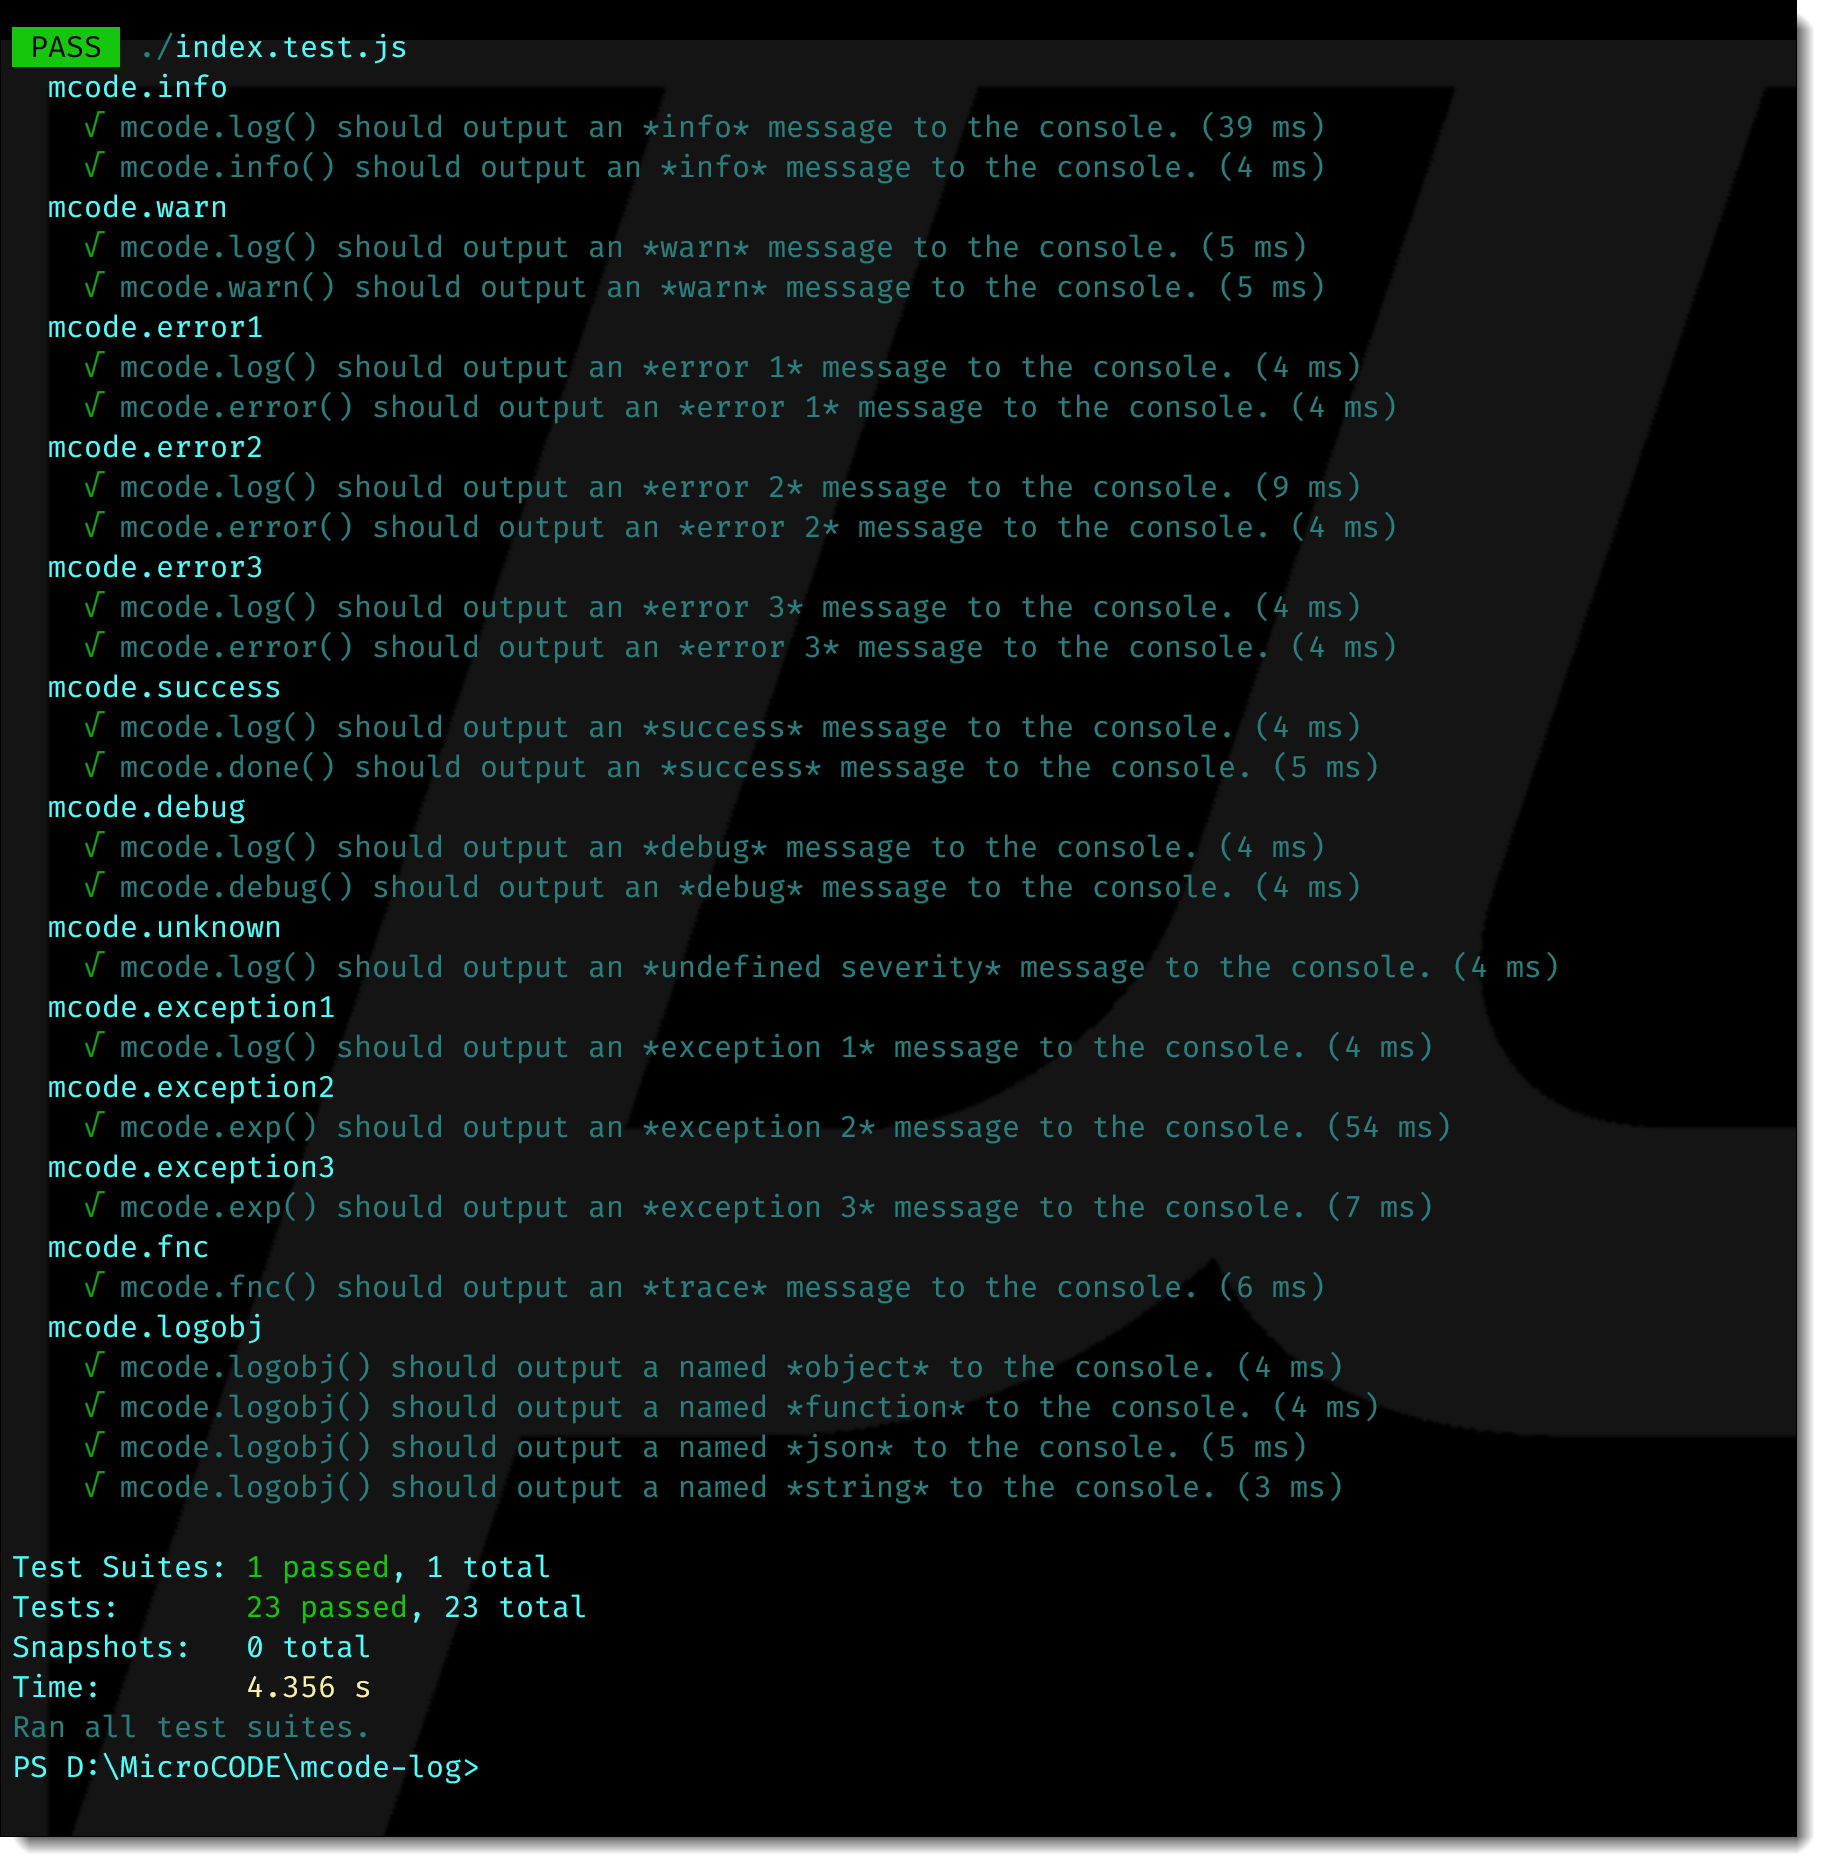
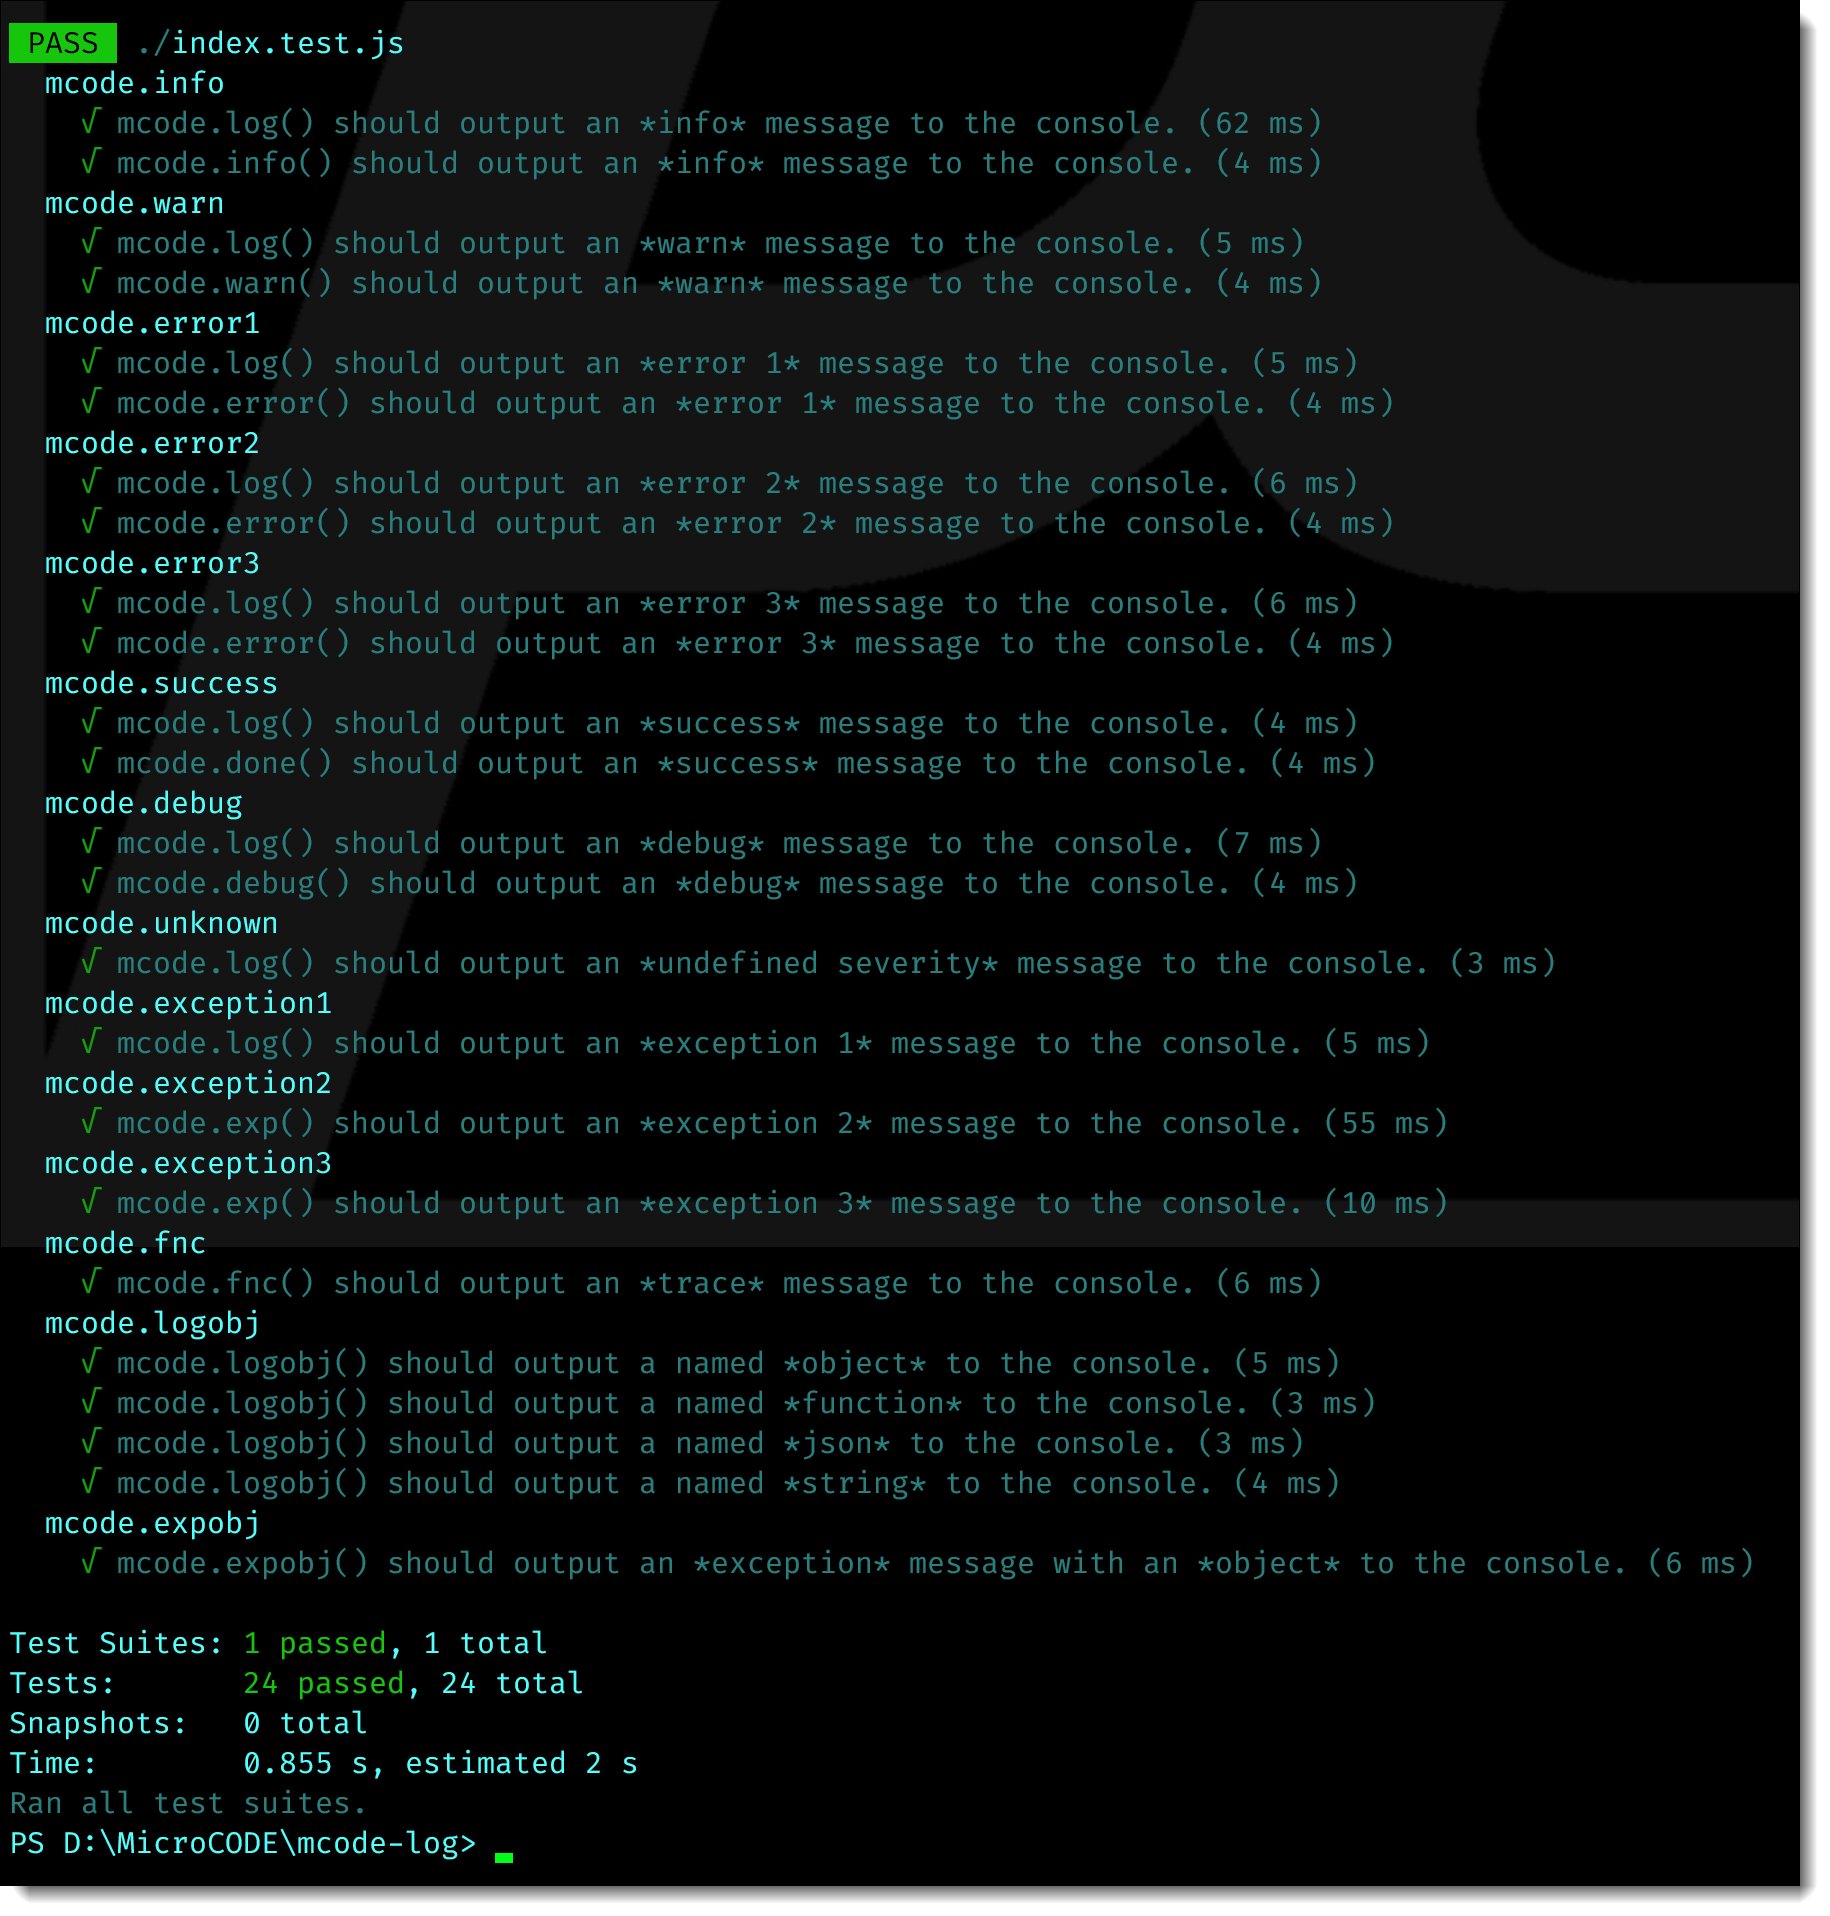
v0.2.2 - added 'expobj()', docs, tests.

Changed region(s): [[0.0, 0.0, 0.8424, 0.9941], [0.8112, 0.8077, 0.8736, 0.8388]]

diff --git a/index.test.js b/index.test.js
@@ -618,3 +618,39 @@ describe('mcode.logobj', () =>
         consoleSpy.mockRestore();
     });
 });
+
+// EXPOBJ Tests
+describe('mcode.expobj', () =>
+{
+    it('mcode.expobj() should output an *exception* message with an *object* to the console.', () =>
+    {
+        // Create a spy on console.log
+        const consoleSpy = jest.spyOn(console, 'log');
+
+        // Call the function that should log the message
+        try
+        {
+            throw new Error('This is an an actual EXCEPTION');
+        }
+        catch (exp)
+        {
+            mcode.expobj(`dataObject`, dataObject, moduleName, exp);
+        }
+
+        // Check that console.log was called with the expected message
+        expect(consoleSpy.mock.calls).toEqual(
+            expect.arrayContaining([
+                expect.arrayContaining([expect.stringContaining("exception w/stack")]),
+                expect.arrayContaining([expect.stringContaining("[INDEX]")]),
+                expect.arrayContaining([expect.stringContaining("index.test.js")]),
+                expect.arrayContaining([expect.stringContaining("EXCEPTION:")]),
+                expect.arrayContaining([expect.stringContaining(" at ")]),
+                expect.arrayContaining([expect.stringContaining("dataObject:")]),
+                expect.arrayContaining([expect.stringContaining("userName: ")])
+            ])
+        );
+
+        // Restore the original console.log function
+        consoleSpy.mockRestore();
+    });
+});

diff --git a/index.js b/index.js
@@ -635,6 +635,9 @@ const mcode = {
 
         const moduleName = source.split('.')[0].toUpperCase();
 
+        let sevColor = vt.reset;
+        sevColor += vt.dead;
+
         // created a simplified exception message for the log entry...
         const loggedException = ' exception: ' + mcode.simplify(logifiedException);
 
@@ -659,7 +662,7 @@ const mcode = {
 
             console.log(entry1 + entry2 + entry3);
 
-            return `${message} ${exception}`;  // for caller to return
+            return `Object: ${objName} ${exception}`;  // for caller to return
         }
         else
         {
@@ -676,7 +679,7 @@ const mcode = {
 
             console.log(entry1 + entry2 + entry3);
 
-            return `${message} ${exception}`;  // for caller to return
+            return `Object: ${objName} ${exception}`;  // for caller to return
         }
     },
 

diff --git a/examples.js b/examples.js
@@ -82,3 +82,12 @@ mcode.logobj("dataObject", dataObject, moduleName);
 mcode.logobj("moduleName", moduleName, moduleName);
 mcode.logobj("mcode.fnc", mcode.fnc, moduleName);
 mcode.logobj("jsonString", jsonString, moduleName);
+
+try
+{
+    throw new Error('This is an an actual EXCEPTION OBJECT, with a DATA OBJECT attached to it.');
+}
+catch (exp)
+{
+    mcode.expobj(`dataObject`, dataObject, moduleName, exp);
+}

diff --git a/README.md b/README.md
@@ -203,7 +203,8 @@ These are the functions we want at the ready in any module for development and d
 | **error**          | Short call form of 'mcode.log(msg, src, 'error');           | mcode.error('message' or object, 'module name')
 | **done**           | Short call form of 'mcode.log(msg, src, 'success');         | mcode.done('message' or object, 'module name')
 | **debug**          | Short call form of 'mcode.log(msg, src, 'debug');           | mcode.debug('message' or object, 'module name')
-| **exp**            | Logs a standardized exception with a collapsible stack dump.| mcode.exp('message' or object, 'module name', 'exp text')
+| **exp**            | Logs a standardized exception with a collapsible stack dump.| mcode.exp('message' or object, 'module name', 'exp object')
+| **expobj**         | Logs standardized exception with an object and stack dump.  | mcode.expobj('object name', object, 'module name', 'exp object')
 | **fnc**            | Logs a standardized function call with a trace dump.        | mcode.fnc('message' or object, 'module name')
 | **logify**         | Converts a message or JSON into text appropriate for log.   | mcode.logify('object or JSON string')
 | **simplify**       | Strips a string of BRACES, BRACKETS, QUOTES, etc.           | mcode.simplify('object or JSON string')
@@ -276,6 +277,9 @@ Contributor's names and contact info...
 
 ## Version History
 
+* 0.2.2
+    * Added a new method 'expobj()' similar to 'logobj()' to log a labeled Object during an exception.
+    * Added documentation for 'expobj()', EXAMPLEs, and JEST tests; and updated README images.
 * 0.2.1
     * Added a new method 'logobj()' to log an object like 'info()' but added an explicit argument to display the object's name.
     * Added documentation for 'logobj()', EXAMPLEs, and JEST tests; and updated README images.
